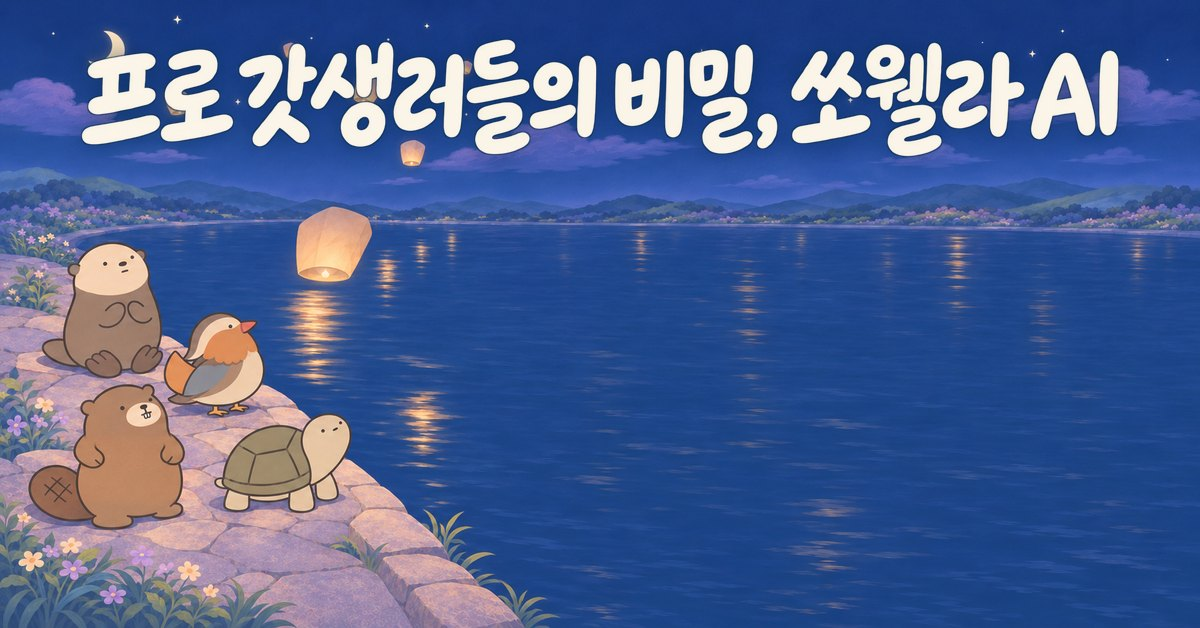
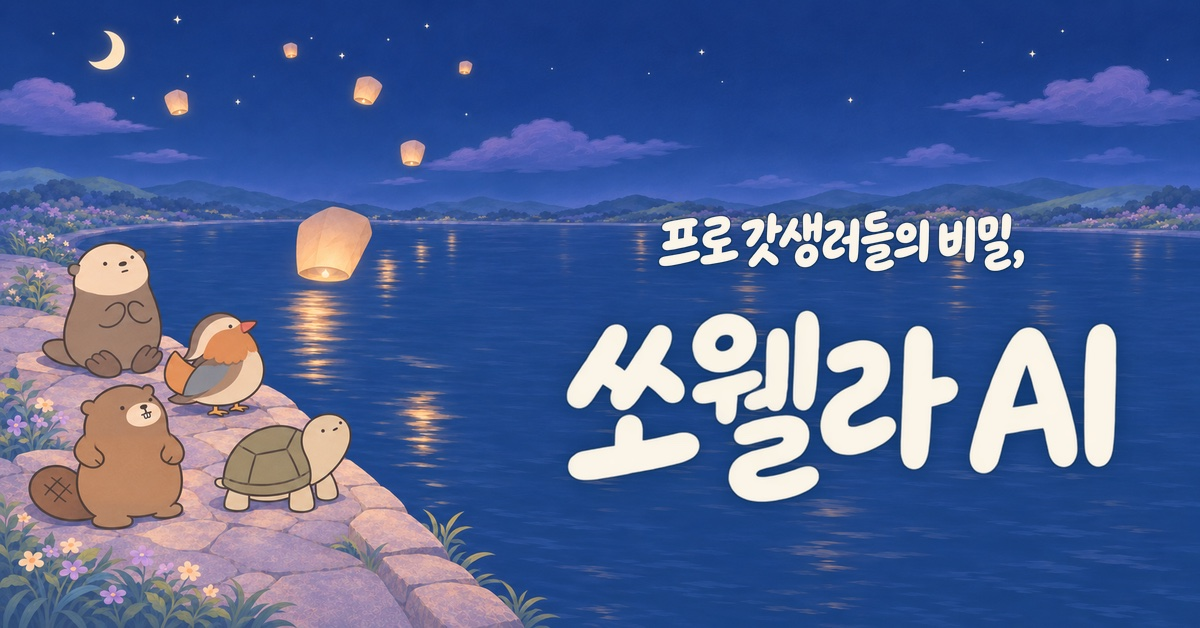
feat: 링크 공유 배너를 대표님 교체본(v6, 글씨 크기 맞춘 확장형)으로, 미리보기 앱이 새 그림을 읽게 주소에 판 번호

Changed region(s): [[0.0617, 0.0605, 0.9558, 0.2723], [0.4625, 0.4841, 0.9558, 0.8169], [0.5242, 0.3328, 0.8633, 0.4538]]

diff --git a/lib/seo/paths.ts b/lib/seo/paths.ts
@@ -8,7 +8,9 @@ export const MAIN_SITE_ABOUT_URL = "https://www.ssolwellnesshouse.com/about.html
 // 2026-11-27 대표님: 쏘웰라 밖에 공유할 때 손글씨 배너("프로 갓생러들의 비밀, 쏘웰라 AI", 1200×628 다섯 장)가 뜨게 — 화면에 맞는 장면을 고름
 // (기본 = 친구들과 풍등 기념사진 · 풍등 = 물가의 풍등 · 사운드 배스 = 숲속 사운드배스 · 갓생러모임 = 새싹을 함께 돌보기 · 쏠 타로 소개 = 함께 타로 살펴보기).
 const BANNER_ALT = "프로 갓생러들의 비밀, 쏘웰라 AI";
-const banner = (name: string) => ({ url: `/og/${name}.jpg`, width: 1200, height: 628, alt: BANNER_ALT });
+// 2026-11-27 대표님 교체본(v6: 글씨 크기를 맞춘 확장형). 파일 이름은 그대로라 미리보기 앱이 예전 그림을 계속 쓰지 않게 주소에 판 번호를 붙인다.
+const BANNER_VERSION = 2;
+const banner = (name: string) => ({ url: `/og/${name}.jpg?v=${BANNER_VERSION}`, width: 1200, height: 628, alt: BANNER_ALT });
 export const SHARE_IMAGES = {
   friends: banner("friends"),
   lantern: banner("lantern"),

diff --git a/CLAUDE.md b/CLAUDE.md
@@ -316,7 +316,7 @@ Non-negotiable rules (source: `system_prompt` and `safety_rules` tables, SAFE-00
 - **2026-11-26 — 작심삼일 챌린지 리워드 = 쏘웰라 7일권(대표님: "챌린지 3일 다 성공한 사람은 쏘웰라 7일권을 리워드로 드립니다 하고 실제로도 7일 연장해줘").** 시작 전 안내 둘째 줄이 그 문장 그대로(`lib/challenge/reward.ts` `REWARD_PROMISE`, 예전 "챌린지 종료 이후에 깜짝 리워드가 있어요!"). 처음 3일을 채운 계정(`challenge_rewards`, 계정당 한 번)에 DB 함수 `grant_challenge_reward`가 `chat_entitlements` 행을 만든다(plan `challenge_reward` · 0원 · `manual` · 메모 "작심삼일 챌린지 3일 완료 리워드") — 시작은 지금·무료체험 끝·남은 이용권 끝 중 가장 늦은 때, 거기에 7일(받은 기간이 겹쳐 사라지지 않게; 체험 끝은 서버가 `loadAccessStatus`로 계산해 넘김). 리워드 행을 잠가 동시에 와도 한 번만, `granted_at`·`reward_kind=chat_7d`·`entitlement_id` 기록. 오늘 전에 이미 3일을 채운 계정도 챌린지 화면을 열 때(GET) 아직 안 받았으면 같은 함수로 받는다. 지급이 실패해도 챌린지 화면은 열리고 받은 것처럼 보이지 않는다(다음에 열 때 다시 시도). 3일차 결과 화면과 갓생러모임 완료 화면에 "리워드로 쏘웰라 7일권을 드렸어요! M월 D일까지 쏘웰라와 이야기할 수 있어요."(한국 날짜). 마이그레이션 `20261126000200_challenge_reward_chat_7d.sql`(대표님 실행 필요 — 실행 전엔 지급이 실패로 남고 화면은 그대로).
 - **2026-11-26 — CSO 묶음 v2.40 반영(해석 DB v5.32 → v5.40 · 엔진 v3.31 → v3.39).** 대표님 지시("1~4번 모두", SQL은 직접 실행해도 됨). ① 운영 실천표: `scripts/import_cso_v240.mjs <SSOL_DB_SQL_v5.40 폴더> [--apply]` — 엑셀(03_실천)마다 열이 달라서 같은 묶음 SQL 19·19a~19f의 해석 DB 실천 행(practice_ref·flags·area·size·theory·codes)을 그대로 읽어 만든다: 새 실천 106(CNP 23 · OUT 59 · RNW 24) · 설명 177(쉬운 말 174 + 3) · 제목 1(RPD-2030) · 승인 26. 예전 글 백업 `docs/백업_비공개/practices_before_v240.json`. ② SQL 19 → 19f만 실행(10~18은 v5.32와 파일이 같음 — 비교로 확인). 결과: 세부 고민 199 · 갈래 1,293 · 뿌리 115 · 실천 2,142 · 새 표 `sw_ob_activity_families` 12 · `sw_ob_challenge_review` 6 · `sw_ob_root_pairs` 94 · `sw_ob_activity_prefs` 62 · `sw_ob_interest_subs` 66(모두 service_role만). ③ 엔진 보관본 교체: personal v0.12 · db_loader v0.38 · 새 `challenge.mjs`(v0.4) · `daily.mjs`(v0.2), case·worryMatch·choiceCards는 주석만 바뀜. 시험 묶음 `engine_kit/v3.39`(git 제외) 14종 통과 — db_loader·onboarding·pg_roundtrip 시험은 로컬 psql 시험 DB가 필요해 못 돌림(지난번과 같음). `lib/tasks/data.ts`가 `challengeDataFromDb`로 작심삼일 데이터도 넣고, 과제 점수 `PS.scorer(cs, person, intentId)`에 세부 고민 코드를 넘김(규칙 PARTNER-ML-1126: ML-로 시작하면 배우자가 있다고 봄). ④ 고민 타파 「오늘 이렇게 해보면 어떨까요?」 = 엔진 `dailySuggestion`(`lib/daily/engineDaily.ts`): 타로 계획 오늘 칸 → 타로 세부 고민·갈래(`tarot_sessions.frame.sub_id`·`branches[0]`) → (다른 테스트는 세부 고민 코드를 안 줘서 넘기지 않음 — 뿌리 장부로 이미 점수에 쓰임) → 최근 대화 고민(`chat_sessions.worry_pick`) → 온보딩 「가장 중요한 것」. 하루 하나 `daily_suggestions`(마이그레이션 `20261126000300`, 직접 실행 — 같은 날 같은 제안, 최근 7개는 다시 안 냄, 탈퇴 때 지움). 운영 실천표 노출 규칙(탐색 뒤에만·노출 단계·위기 이력)에 걸리면 빼고 다시 고름. 엔진이 못 고르면 예전 `getDailyPractice`(source fallback). 홈은 이 계산을 안 함(`/api/daily-practice?practice=1`만 — 홈 로딩 그대로, 엔진 첫 적재는 개발 서버에서 약 14초). ⑤ 온보딩 보기(`lib/onboarding/schema.ts`): `closer_partner`「연인·배우자와 더 가까워지는 것」·`travel_nature`「여행 가거나 자연에서 시간 보내기」 추가, 창작 활동 문구를 CSO 판으로, `family_time`은 보관(뺌 — 이미 고른 13명은 수정 화면을 열 때 순위에서 빠짐 `pruneRetiredRanked`, 저장된 답은 다시 저장할 때 바뀜).
 - **2026-11-26 — 작심삼일 계획을 사람마다(대표님 + CSO 묶음 v2.40 · 엔진 ssol_challenge v0.4).** 대표님: 테스트(타로)에서 온 사람은 그 챌린지 그대로 · 그냥 온 사람은 간소화한 온보딩 3개로 엔진이 사람마다 고르고 안 맞으면 셔플 · 답이 없으면 지금처럼 세 가지 마음 순서대로(셔플). 구현: 계획 모양 하나로(`lib/challenge/planView.ts` — 3일 글·그날 남겨 볼 것·1주일·1달), `challenges.source`(theme·engine·tarot)·`plan`(시작할 때 글 그대로 남김 — 엔진 데이터가 바뀌어도 하던 챌린지는 그대로)·`family_id`(마이그레이션 `20261126000400`, 직접 실행). 주소: `/challenge/start/<worry|delay|energy>`(셔플 = 다음 마음) · `/challenge/start/me?s=N`(엔진, 셔플 = 앞에서 나온 활동 가족을 빼고 다시) · `/challenge/start/tarot` · `/challenge/questions/1~3`(가장 중요한 것·취미·가장 행복한 주말 — 온보딩과 같은 문항·보기, "기타"만 뺌, 같은 `user_onboarding`에 저장해 나중 온보딩에 미리 채워짐). 엔진 사람 정보는 온보딩 끝+동의면 전부, 아니면 그 세 답만(`personForChallenge` — 챌린지를 고르려고 직접 답한 것이라 그 용도로만). 엔진 계획의 기준 고민: 최근 대화 고민 → 「가장 중요한 것」 1순위의 세부 고민(`sw_ob_interest_subs`) → 없으면 취미·주말 답만. 3일차는 엔진의 "어제 해 본 「…」 돌아보기"(단계는 그날 남겨 볼 것 줄로). 첫 화면(시작 전) — 대표님 2026-11-26 고침("타로에서 받으면 그냥 그 그대로 챌린지 하는 거야, 보기가 아니야"): 테스트에서 받은 챌린지가 있으면(가장 최근 것 — `report->challenge`가 있는 결과) 갓생러모임을 열면 바로 그 챌린지 화면(`/challenge/start/tarot`), 질문 3개 답이 있으면 바로 `/challenge/start/me` — "보기" 단계 없음. 셔플은 챌린지 제목 바로 옆 작은 "↻ 셔플" 버튼(타로 챌린지에서 누르면 답이 있으면 엔진 챌린지, 없으면 세 가지 마음). 테스트도 답도 없으면 "질문 3개로 나에게 맞는 챌린지 찾기" + 그 아래 "질문 없이 세 가지 중에서 고를게요"(세 가지 마음). 받은 챌린지 화면 아래에 "세 가지 중에서 고를게요" · "그동안의 갓생 챌린지 기록"(첫 화면이 바로 넘어가므로). 서버가 계획을 다시 만들어 저장(화면이 보낸 글을 믿지 않음), 인증 저장의 그날 행동도 남긴 계획에서. **타로 쪽은 아직 안 넘어옴**(2026-11-26 확인: 타로 결과 620개 중 다섯 칸 0개, 타로 앱 코드에 "작심삼일은 기획 단계라 넣지 않음") — 받는 자리는 `tarot_sessions.report.challenge` = `{day1, day2, day3, week, month}`(칸마다 글 한 줄 또는 `{title(80자 이내), description(300자 이내), practice_id}` · 1·2·3일차는 꼭, `lib/challenge/tarotPlan.ts`), 대표님이 타로 앱에서 만들기로 함. **쏠 타로 주소(2026-11-26 타로 쪽 전달)**: 챌린지 `/challenge?from=tarot&result={결과번호}` → `/challenge/start/tarot?result=…`(그 결과가 본인 것이고 다섯 칸이 있으면 그것, 아니면 가장 최근 다섯 칸, 없으면 갓생러모임 첫 화면) · 풍등 `/lantern?from=tarot&result=…` → 풍등 그대로 · 대화 `/chat?from=tarot&result=…`(예전 그대로). 주소 → 갈 곳은 `lib/challenge/testEntry.ts`(순수·시험 있음), 로그인 전이면 갈 곳을 맡아 두었다가(`lib/challenge/pending.ts` — 예전 마음 키만 맡던 것을 갈 곳 주소로 넓힘) 카카오·네이버 로그인 뒤 AppFrame이 이어 보냄. 실제 타로 결과로 받는 쪽 확인은 타로 쪽과 함께 하기로 함.
-- **2026-11-27 — 링크 공유 미리보기(대표님).** 쏘웰라 밖에 공유할 때 손글씨 배너("프로 갓생러들의 비밀, 쏘웰라 AI", 1200×628 — 대표님 제공 PNG를 JPG로 `public/og/*.jpg`). 화면별 장면: 기본(홈·/about·고민 타파·디저트·아스트로 소개) = 친구들과 풍등 기념사진(`friends`) · 풍등(`app/lantern/layout.tsx`) = 물가의 풍등 · 갓생러모임(`app/(app)/challenge/layout.tsx`) = 새싹을 함께 돌보기 · 사운드 배스 = 숲속 사운드배스 · 쏠 타로 소개 = 함께 타로 살펴보기. 목록은 `lib/seo/paths.ts` `SHARE_IMAGES`, 화면별 메타는 `lib/seo/share.ts` `shareMetadata`(openGraph를 지정하면 위 값을 통째로 덮어서 제목·설명도 함께 넣음). 링크 미리보기 제목 `OG_TITLE`을 예전 "내 손안의 상담사, 쏘웰라 AI | 가입하면 3일 무료"에서 검색 제목(`SITE_TITLE`, 2026-11-21 대표님)과 같게. 카카오톡은 한 번 읽은 미리보기를 저장해 두므로 카카오 공유 디버거에서 캐시 초기화를 해야 바로 바뀐다.
+- **2026-11-27 — 링크 공유 미리보기(대표님).** 쏘웰라 밖에 공유할 때 손글씨 배너("프로 갓생러들의 비밀, 쏘웰라 AI", 1200×628 — 대표님 제공 PNG를 JPG로 `public/og/*.jpg`). 화면별 장면: 기본(홈·/about·고민 타파·디저트·아스트로 소개) = 친구들과 풍등 기념사진(`friends`) · 풍등(`app/lantern/layout.tsx`) = 물가의 풍등 · 갓생러모임(`app/(app)/challenge/layout.tsx`) = 새싹을 함께 돌보기 · 사운드 배스 = 숲속 사운드배스 · 쏠 타로 소개 = 함께 타로 살펴보기. 목록은 `lib/seo/paths.ts` `SHARE_IMAGES`, 화면별 메타는 `lib/seo/share.ts` `shareMetadata`(openGraph를 지정하면 위 값을 통째로 덮어서 제목·설명도 함께 넣음). 링크 미리보기 제목 `OG_TITLE`을 예전 "내 손안의 상담사, 쏘웰라 AI | 가입하면 3일 무료"에서 검색 제목(`SITE_TITLE`, 2026-11-21 대표님)과 같게. 카카오톡은 한 번 읽은 미리보기를 저장해 두므로 카카오 공유 디버거에서 캐시 초기화를 해야 바로 바뀐다. 같은 날 대표님 교체본(v6: 승인한 슬림형 글씨 크기를 유지한 1200×628 확장형, 장면 다섯 개는 같음)으로 바꾸고 이미지 주소에 `?v=2`(`BANNER_VERSION`)를 붙임 — 그림을 또 바꾸면 이 숫자를 올린다.
 ## 7. Coding conventions
 
 - TypeScript, Next.js App Router. **This Next.js version differs from older versions: read the relevant guide in `node_modules/next/dist/docs/` before using an API.**
